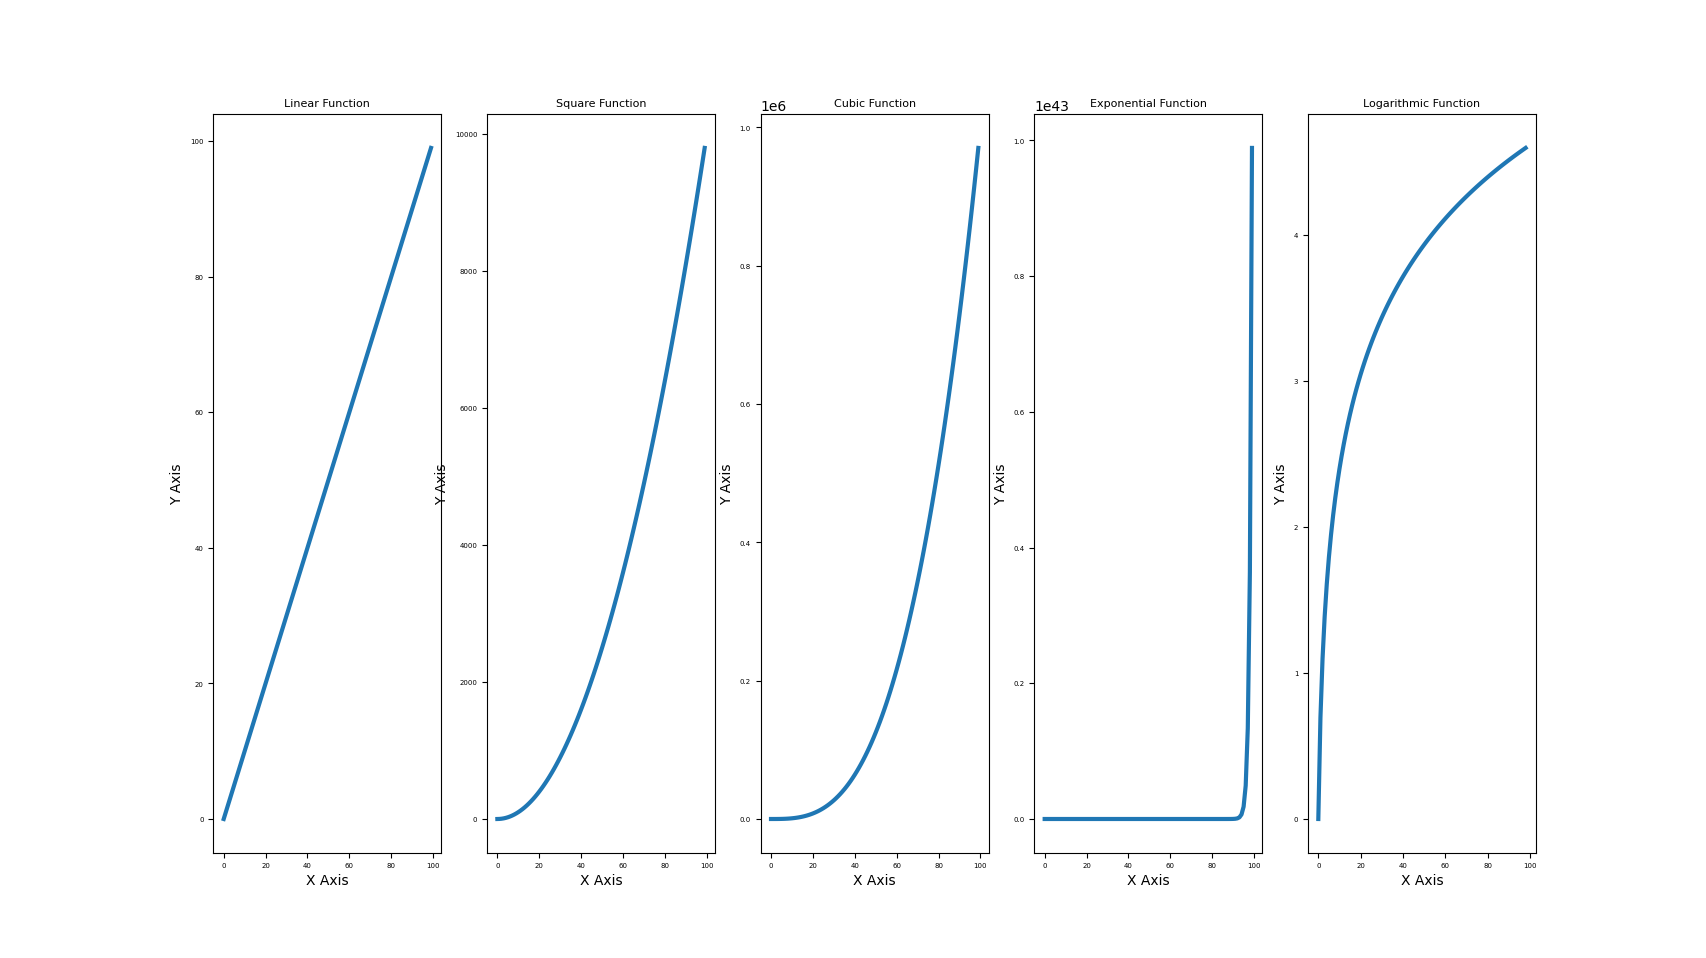
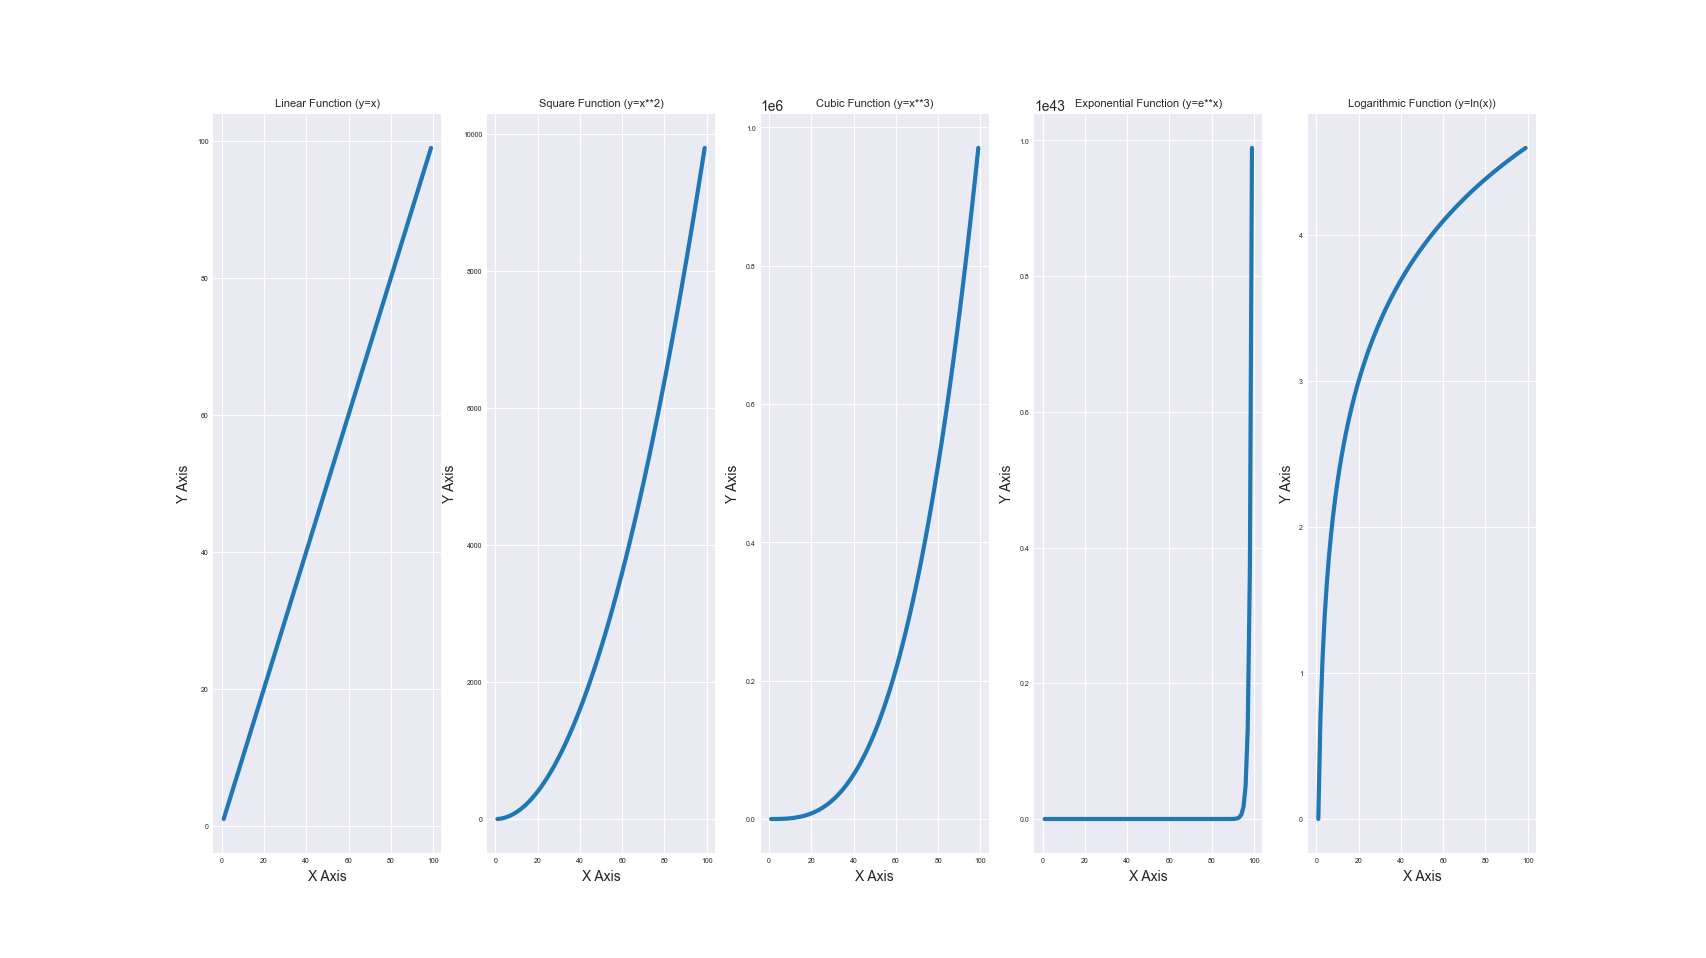
add style to graphs

diff --git a/mpl_graphs.py b/mpl_graphs.py
@@ -1,34 +1,38 @@
 import matplotlib.pyplot as plt
 import math
 
-linear = [x for x in range(100)]
+input_values = [x for x in range(1,100)]
+
+linear = [x for x in range(1,100)]
 print(linear)
-squares = [x ** 2 for x in range(100)]
+squares = [x ** 2 for x in range(1,100)]
 print(squares)
-cubic = [x ** 3 for x in range(100)]
+cubic = [x ** 3 for x in range(1,100)]
 print(cubic)
-exponential = [math.exp(x) for x in range(100)]
+exponential = [math.exp(x) for x in range(1,100)]
 print(exponential)
 logarithmic = [math.log(x) for x in range(1, 100)]
 print(logarithmic)
 
+plt.style.use('seaborn-v0_8-darkgrid')
+
 fig, ax = plt.subplots(1, 5)
 
-ax[0].plot(linear, linewidth=3)
-ax[0].set_title("Linear Function", fontsize=8)
+ax[0].plot(input_values, linear, linewidth=3)
+ax[0].set_title("Linear Function (y=x)", fontsize=8)
 
 
-ax[1].plot(squares, linewidth=3)
-ax[1].set_title("Square Function", fontsize=8)
+ax[1].plot(input_values, squares, linewidth=3)
+ax[1].set_title("Square Function (y=x**2)", fontsize=8)
 
-ax[2].plot(cubic, linewidth=3)
-ax[2].set_title("Cubic Function", fontsize=8)
+ax[2].plot(input_values, cubic, linewidth=3)
+ax[2].set_title("Cubic Function (y=x**3)", fontsize=8)
 
-ax[3].plot(exponential, linewidth=3)
-ax[3].set_title("Exponential Function", fontsize=8)
+ax[3].plot(input_values, exponential, linewidth=3)
+ax[3].set_title("Exponential Function (y=e**x)", fontsize=8)
 
-ax[4].plot(logarithmic, linewidth=3)
-ax[4].set_title("Logarithmic Function", fontsize=8)
+ax[4].plot(input_values, logarithmic, linewidth=3)
+ax[4].set_title("Logarithmic Function (y=ln(x))", fontsize=8)
 
 for axes in ax:
     axes.set_xlabel("X Axis")
